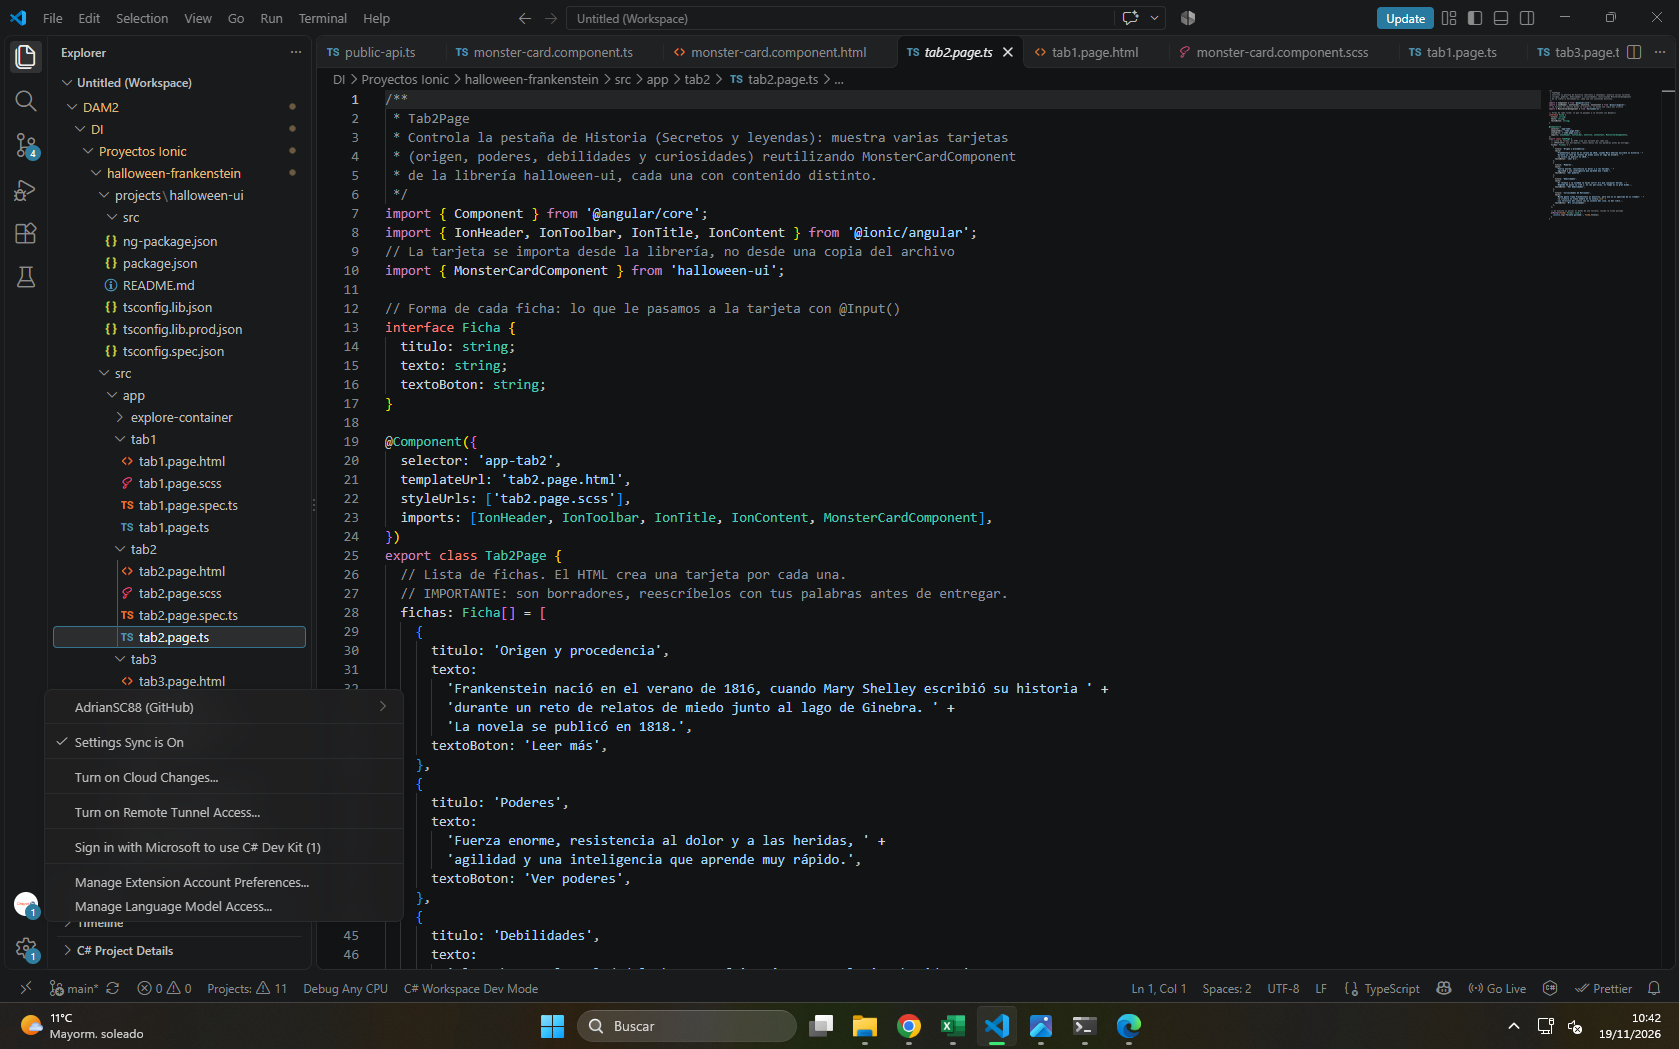
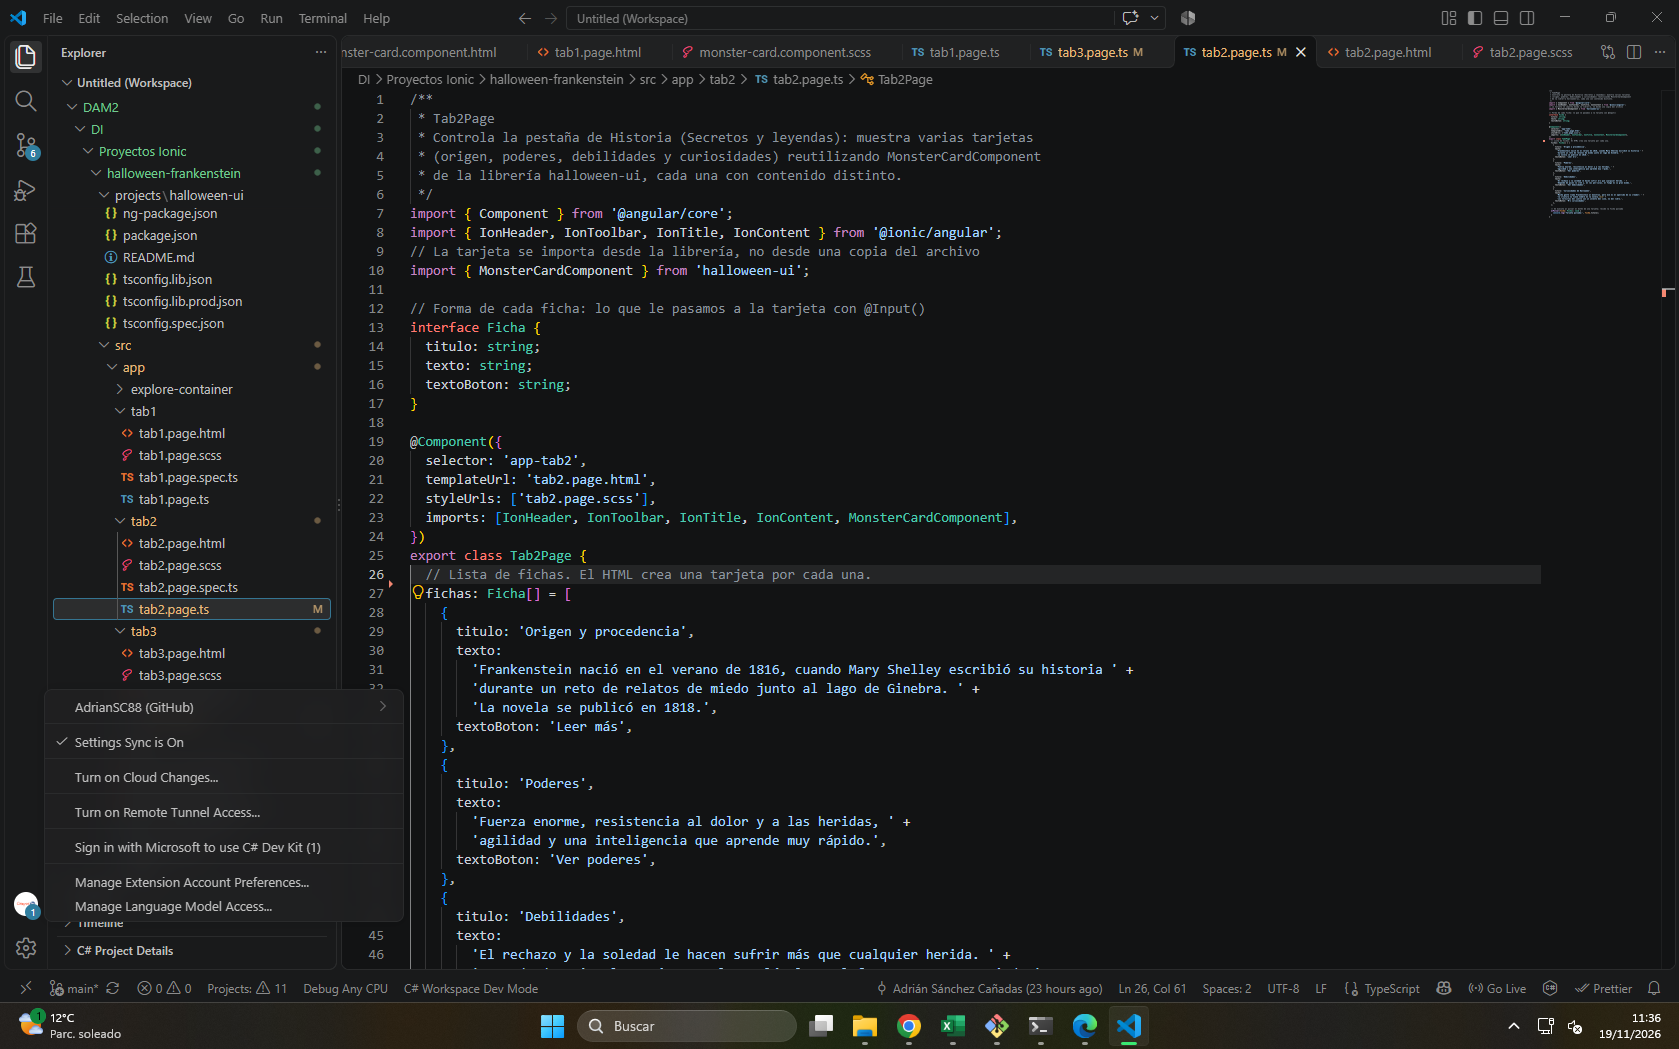
fix: Correción de errores y capturas

diff --git a/src/app/tab3/tab3.page.ts b/src/app/tab3/tab3.page.ts
@@ -22,8 +22,7 @@ interface Elemento {
   imports: [IonHeader, IonToolbar, IonTitle, IonContent, MonsterCardComponent],
 })
 export class Tab3Page {
-  // Elementos de la galería. Guarda tus imágenes en src/assets con estos nombres
-  // (o cambia aquí la ruta). Reescribe las frases con tus palabras.
+  // Elementos de la galería.
   galeria: Elemento[] = [
     {
       imagen: 'assets/castillo.jpg',

diff --git a/src/app/tab2/tab2.page.ts b/src/app/tab2/tab2.page.ts
@@ -24,7 +24,6 @@ interface Ficha {
 })
 export class Tab2Page {
   // Lista de fichas. El HTML crea una tarjeta por cada una.
-  // IMPORTANTE: son borradores, reescríbelos con tus palabras antes de entregar.
   fichas: Ficha[] = [
     {
       titulo: 'Origen y procedencia',
